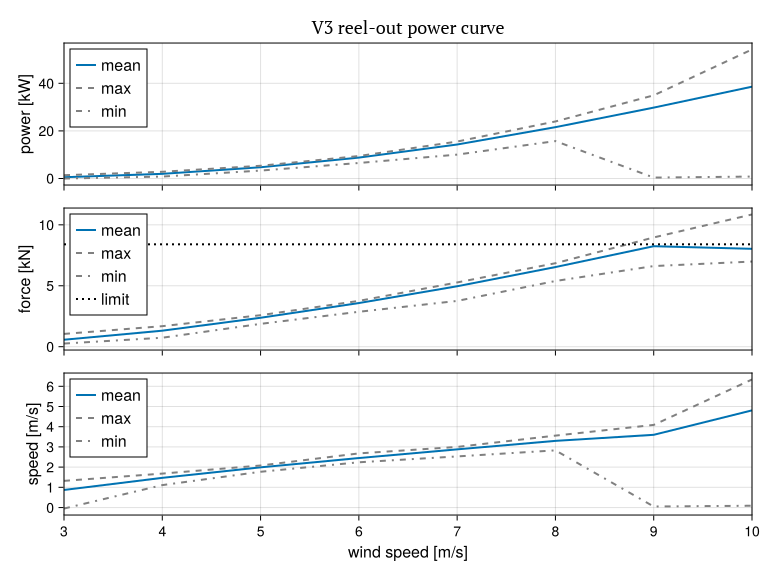
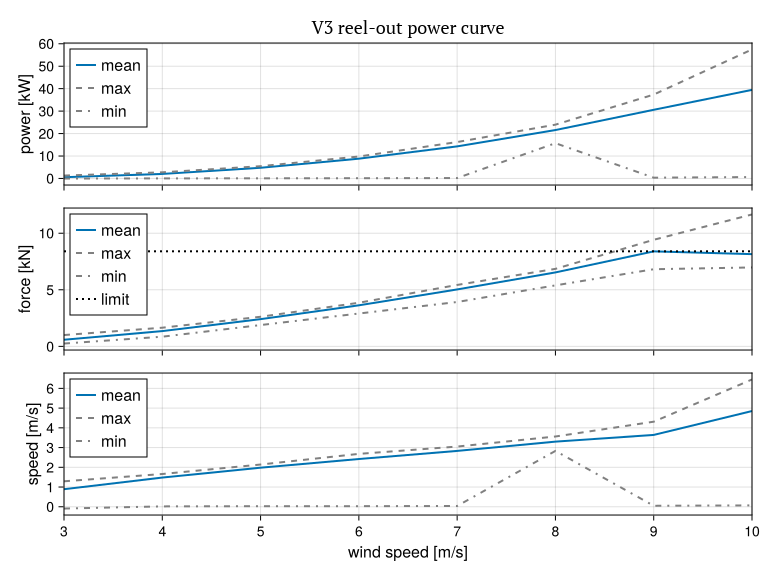
Update results

diff --git a/notebooks/overview.md b/notebooks/overview.md
@@ -1,10 +1,10 @@
 | date | time | v_wind | power_ratio | total_time | rt_factor | opt_requests | opts_installed | av_power | min_power | max_power | min_force | av_force | max_force | v_ro_min | v_ro_av | v_ro_max | av_depower |
 | :---: | :---: | :---: | :---: | :---: | :---: | :---: | :---: | :---: | :---: | :---: | :---: | :---: | :---: | :---: | :---: | :---: | :---: |
-| 2026-08-22 | 19:16:34 | 3.0 | 1.42 | 389.1 | 2.14 | 7 | 5 | 542 | -18 | 1386 | 257 | 570 | 1047 | -0.05 | 0.87 | 1.32 | 0.296 |
-| 2026-08-22 | 17:50:41 | 4.0 | 1.02 | 310.7 | 1.66 | 7 | 7 | 1961 | 814 | 2822 | 734 | 1313 | 1682 | 1.11 | 1.47 | 1.68 | 0.287 |
-| 2026-08-22 | 18:11:09 | 5.0 | 1.0 | 286.3 | 1.74 | 7 | 7 | 4729 | 3329 | 5347 | 1872 | 2373 | 2583 | 1.77 | 1.99 | 2.08 | 0.277 |
-| 2026-08-22 | 17:57:35 | 6.0 | 0.99 | 190.1 | 1.81 | 7 | 7 | 8782 | 6518 | 9442 | 2864 | 3581 | 3758 | 2.24 | 2.45 | 2.68 | 0.273 |
-| 2026-08-22 | 18:17:19 | 7.0 | 0.98 | 178.4 | 1.79 | 7 | 7 | 14283 | 10036 | 15520 | 3754 | 4959 | 5271 | 2.53 | 2.88 | 3.0 | 0.271 |
+| 2026-08-24 | 11:55:12 | 3.0 | 1.44 | 221.9 | 4.57 | 6 | 5 | 563 | -36 | 1290 | 249 | 585 | 1000 | -0.09 | 0.89 | 1.29 | 0.294 |
+| 2026-08-24 | 11:50:17 | 4.0 | 1.02 | 116.4 | 3.94 | 6 | 6 | 2020 | 27 | 2738 | 854 | 1350 | 1649 | 0.02 | 1.48 | 1.66 | 0.285 |
+| 2026-08-24 | 12:04:05 | 5.0 | 1.01 | 98.6 | 3.83 | 6 | 6 | 4763 | 64 | 5465 | 1883 | 2406 | 2615 | 0.03 | 1.98 | 2.14 | 0.276 |
+| 2026-08-24 | 11:42:33 | 6.0 | 1.0 | 99.1 | 3.63 | 6 | 6 | 8814 | 112 | 9777 | 2902 | 3628 | 3854 | 0.03 | 2.42 | 2.68 | 0.273 |
+| 2026-08-24 | 12:07:26 | 7.0 | 0.98 | 81.9 | 3.67 | 5 | 5 | 14292 | 177 | 16220 | 3920 | 5031 | 5428 | 0.04 | 2.83 | 3.05 | 0.271 |
 | 2026-08-22 | 18:02:51 | 8.0 | 0.98 | 125.4 | 1.8 | 6 | 6 | 21573 | 15718 | 23967 | 5390 | 6535 | 6849 | 2.83 | 3.3 | 3.56 | 0.27 |
-| 2026-08-22 | 22:52:25 | 9.0 | 0.95 | 278.4 | 1.37 | 5 | 5 | 29785 | 389 | 34935 | 6615 | 8245 | 8964 | 0.05 | 3.6 | 4.09 | 0.272 |
-| 2026-08-22 | 23:34:39 | 10.0 | 0.96 | 188.9 | 1.34 | 4 | 4 | 38577 | 813 | 54214 | 6986 | 8031 | 10851 | 0.09 | 4.81 | 6.34 | 0.272 |
+| 2026-08-24 | 12:11:09 | 9.0 | 0.97 | 99.5 | 3.44 | 6 | 6 | 30591 | 349 | 37372 | 6817 | 8394 | 9418 | 0.05 | 3.64 | 4.31 | 0.269 |
+| 2026-08-24 | 12:15:04 | 10.0 | 0.98 | 80.2 | 3.18 | 4 | 4 | 39471 | 625 | 57466 | 6974 | 8150 | 11657 | 0.07 | 4.85 | 6.45 | 0.27 |
